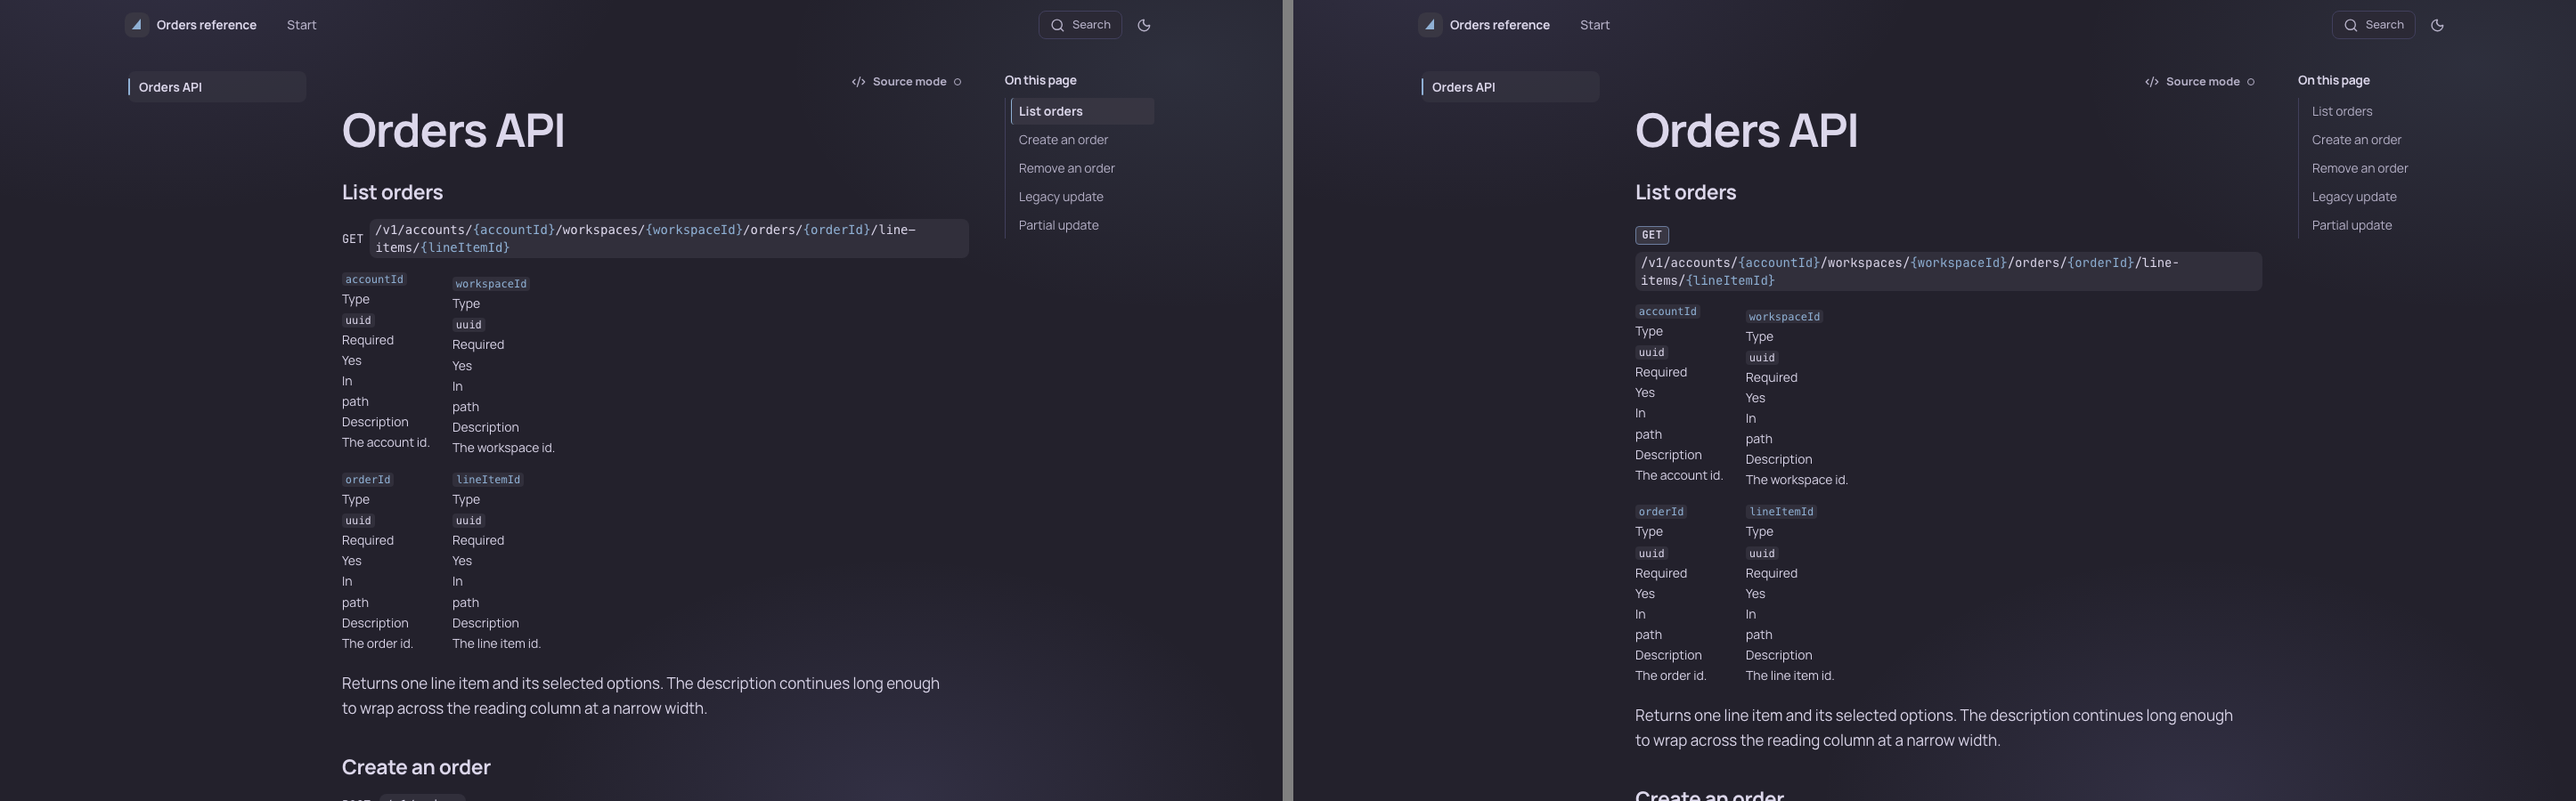
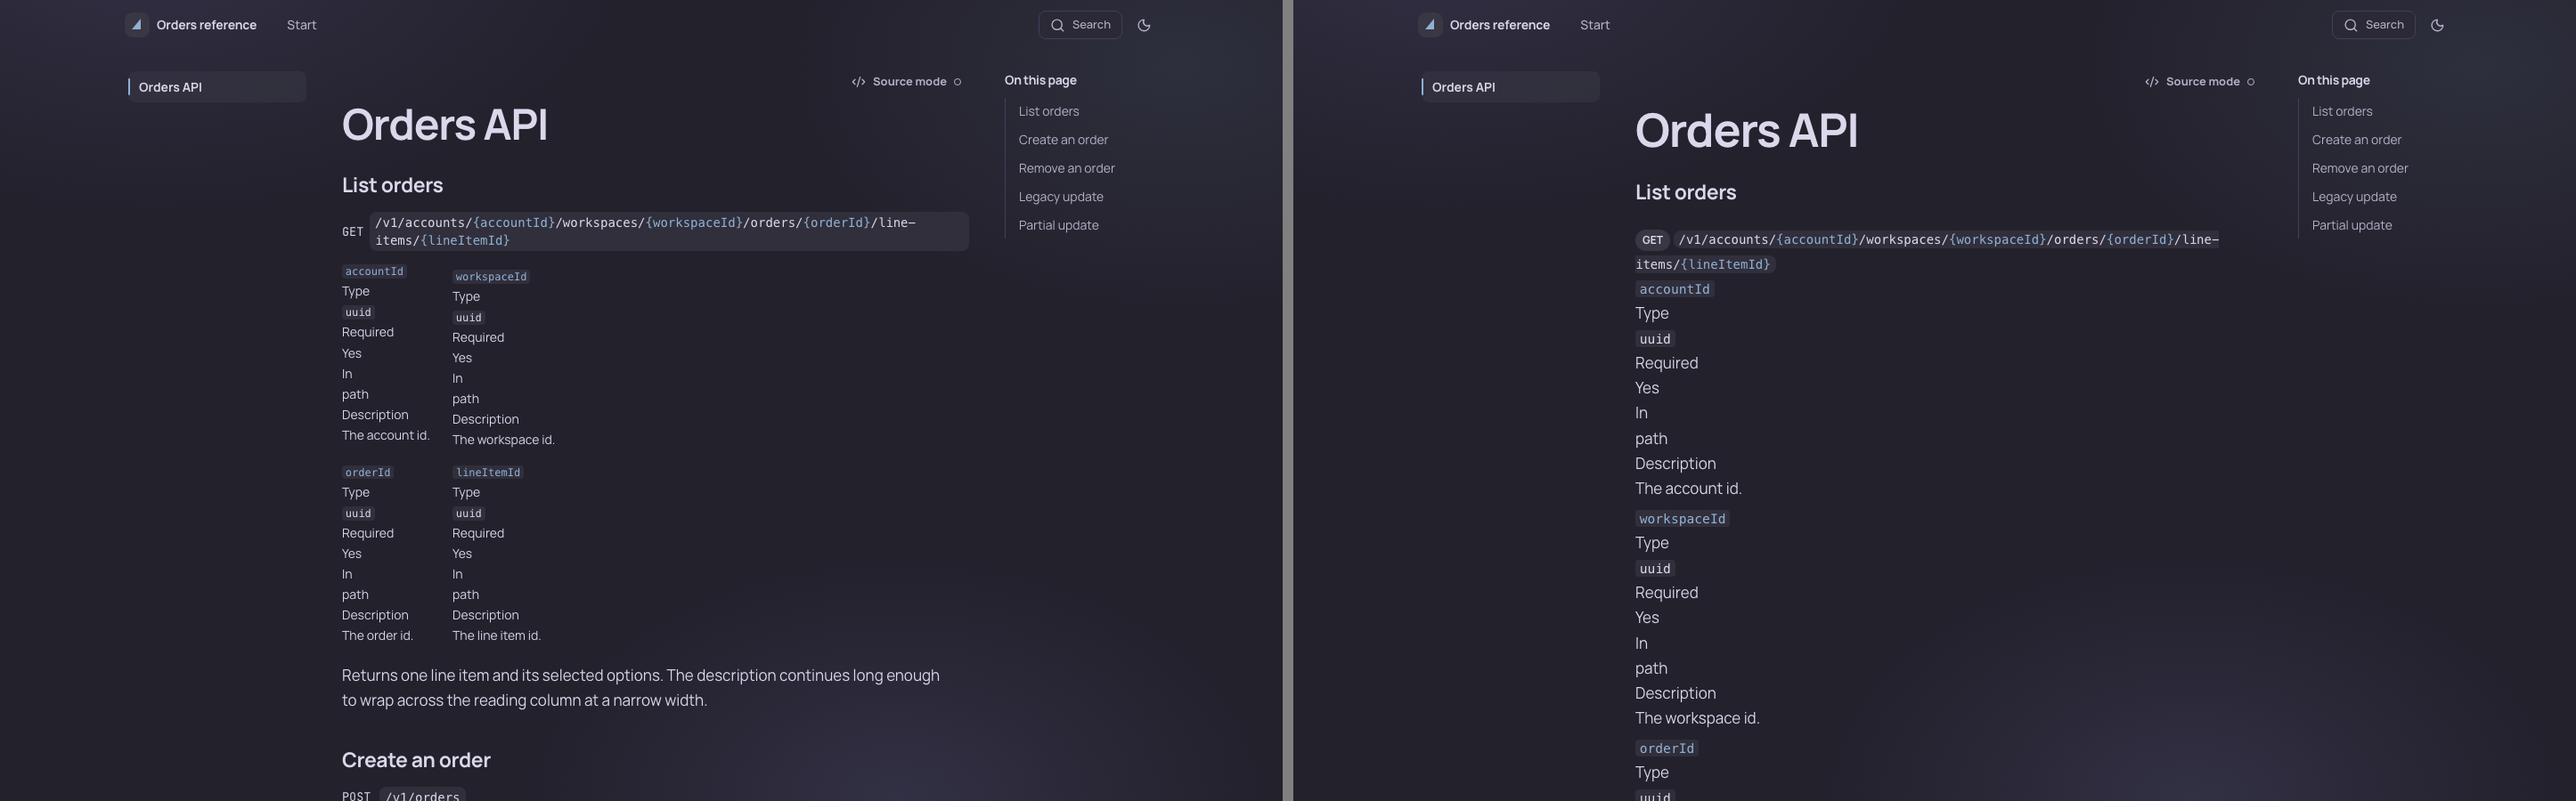
Share the endpoint method badge and keep the CSS budget
- Reuse the version-badge primitive for the endpoint method and render the
  request line as flowing text, so the method keeps its text label and a long
  path wraps without a new badge rule.
- Stack the endpoint parameter metadata vertically instead of the shared
  key-value grid, which had placed each parameter in a separate column.
- Update the endpoint docs and the upgrade normalization for the shared badge
  class and the space before the path.

diff --git a/test/api-reference-layout/api-reference.test.ts b/test/api-reference-layout/api-reference.test.ts
@@ -26,7 +26,7 @@ const indexCss = "" /* lateen-legacy removed: ../layouts/api-reference-index.css
 test("a full operation renders the method, path, title, description, tags, deprecated state, and server", () => {
   const page = render(operationPage(fullOperation));
   assert.match(page, /<main id="main" tabindex="-1">[\s\S]*?<article class="doc api-reference" data-pagefind-body="true">/);
-  assert.match(page, /<span class="api-reference-method api-reference-method-post">POST<\/span><code class="api-reference-path" dir="ltr">\/widgets<\/code>/);
+  assert.match(page, /<span class="version-badge api-reference-method api-reference-method-post">POST<\/span> <code class="api-reference-path" dir="ltr">\/widgets<\/code>/);
   assert.match(page, /<h1>Create a widget<\/h1>/);
   assert.match(page, /<p class="api-reference-description">Creates one widget and returns it\.<\/p>/);
   assert.match(page, /<ul class="api-reference-tags" aria-label="Tags"><li class="api-reference-tag">Widgets<\/li><\/ul>/);
@@ -70,7 +70,7 @@ test("responses render every status, its description, content, schemas, and exam
 
 test("the minimal operation still has method, path, title, and its response, and no empty optional sections", () => {
   const page = render(operationPage(minimalOperation));
-  assert.match(page, /<span class="api-reference-method api-reference-method-get">GET<\/span><code class="api-reference-path" dir="ltr">\/ping<\/code>/);
+  assert.match(page, /<span class="version-badge api-reference-method api-reference-method-get">GET<\/span> <code class="api-reference-path" dir="ltr">\/ping<\/code>/);
   assert.match(page, /<h1>GET \/ping<\/h1>/);
   assert.match(page, /<h2>Responses<\/h2><section class="api-reference-response"><h3><code class="api-reference-status" dir="ltr">200<\/code><span class="api-reference-response-description"> The service is up\.<\/span><\/h3>/);
   assert.doesNotMatch(page, /api-reference-tags|api-reference-server|api-reference-deprecated|>Parameters<|>Request body</);
@@ -148,8 +148,8 @@ test("the index renders its title, version, description, groups, and untagged op
   assert.match(page, /<span class="api-reference-index-label">Version<\/span> <code dir="ltr">1\.4\.0<\/code>/);
   assert.match(page, /<p class="api-reference-description">A small API\.<\/p>/);
   assert.match(page, /<nav class="api-reference-index-nav" aria-labelledby="api-reference-index-nav-title"><h2 id="api-reference-index-nav-title">Operations<\/h2>/);
-  assert.match(page, /<h3 class="api-reference-index-group-title">Widgets<\/h3><ul class="api-reference-index-list"><li><a class="api-reference-index-link" href="\/reference\/createWidget\/">Create a widget<\/a><\/li><\/ul>/);
-  assert.match(page, /<h3 class="api-reference-index-group-title">Other operations<\/h3><ul class="api-reference-index-list"><li><a class="api-reference-index-link" href="\/reference\/ping\/">GET \/ping<\/a><\/li><\/ul>/);
+  assert.match(page, /<h3 class="api-reference-index-group-title">Widgets<\/h3><ul class="api-reference-index-list grid gap-3"><li><a class="api-reference-index-link" href="\/reference\/createWidget\/">Create a widget<\/a><\/li><\/ul>/);
+  assert.match(page, /<h3 class="api-reference-index-group-title">Other operations<\/h3><ul class="api-reference-index-list grid gap-3"><li><a class="api-reference-index-link" href="\/reference\/ping\/">GET \/ping<\/a><\/li><\/ul>/);
   assert.equal([...page.matchAll(/<h1>/g)].length, 1);
 });
 
@@ -173,11 +173,11 @@ test("the index introduces each operation with the method, path, and description
   );
   assert.match(
     page,
-    /<li class="api-reference-index-item"><a class="api-reference-index-link api-reference-index-entry" href="\/reference\/createWidget\/"><span class="api-reference-index-line"><span class="api-reference-method api-reference-method-post">POST<\/span><code class="api-reference-path" dir="ltr">\/widgets<\/code><\/span><span class="api-reference-index-title">Create a widget<\/span><span class="api-reference-index-description">Creates one widget and returns it\.<\/span><\/a><\/li>/,
+    /<li class="api-reference-index-item"><a class="api-reference-index-link api-reference-index-entry grid" href="\/reference\/createWidget\/"><span class="endpoint-line"><span class="version-badge api-reference-method api-reference-method-post">POST<\/span> <code class="endpoint-path" dir="ltr">\/widgets<\/code><\/span><strong class="api-reference-index-title">Create a widget<\/strong><p class="api-reference-index-description">Creates one widget and returns it\.<\/p><\/a><\/li>/,
   );
   assert.match(
     page,
-    /<li class="api-reference-index-item"><a class="api-reference-index-link api-reference-index-entry" href="\/reference\/ping\/"><span class="api-reference-index-line"><span class="api-reference-method api-reference-method-get">GET<\/span><code class="api-reference-path" dir="ltr">\/ping<\/code><\/span><\/a><\/li>/,
+    /<li class="api-reference-index-item"><a class="api-reference-index-link api-reference-index-entry grid" href="\/reference\/ping\/"><span class="endpoint-line"><span class="version-badge api-reference-method api-reference-method-get">GET<\/span> <code class="endpoint-path" dir="ltr">\/ping<\/code><\/span><\/a><\/li>/,
   );
 });
 
@@ -211,7 +211,7 @@ test("an operation without a description keeps its request line and title", () =
   );
   assert.match(
     page,
-    /<span class="api-reference-method api-reference-method-get">GET<\/span><code class="api-reference-path" dir="ltr">\/widgets<\/code><\/span><span class="api-reference-index-title">List widgets<\/span><\/a>/,
+    /<span class="version-badge api-reference-method api-reference-method-get">GET<\/span> <code class="endpoint-path" dir="ltr">\/widgets<\/code><\/span><strong class="api-reference-index-title">List widgets<\/strong><\/a>/,
   );
   assert.doesNotMatch(page, /api-reference-index-description/);
 });

diff --git a/styles/src/content.css b/styles/src/content.css
@@ -557,62 +557,11 @@
     background: var(--background);
   }
 
-  /* Endpoint introductions: the hand-written endpoint block and the generated operation page share
-     one line, one method badge, and one wrapping path. The method's text is its label; the hairline
-     tint only groups the verbs, so color is never the only signal. */
-  :is(.endpoint-line, .api-reference-line, .api-reference-index-line) {
-    display: flex;
-    flex-wrap: wrap;
-    align-items: center;
-    gap: 0.5rem 0.625rem;
-    min-inline-size: 0;
-  }
-
-  .endpoint-line {
-    font-family: var(--type-font-mono);
-    font-size: 0.84rem;
-  }
-
-  :is(.endpoint-method, .api-reference-method) {
-    display: inline-flex;
-    flex: none;
-    align-items: center;
-    padding-block: 0.05rem;
-    padding-inline: 0.4rem;
-    border: 1px solid var(--border);
-    border-radius: var(--radius-sm);
-    background: var(--muted);
-    color: var(--foreground);
-    font-family: var(--type-font-mono);
-    font-size: 0.75rem;
-    font-weight: var(--type-weight-bold);
-    line-height: 1.4;
-    letter-spacing: 0.04em;
-    white-space: nowrap;
-  }
-
-  :is(.endpoint-method-get, .api-reference-method-get) {
-    border-color: color-mix(in srgb, var(--link) 55%, var(--border));
-  }
-
-  :is(.endpoint-method-post, .api-reference-method-post) {
-    border-color: color-mix(in srgb, var(--mist) 70%, var(--border));
-  }
-
-  :is(.endpoint-method-put, .api-reference-method-put, .endpoint-method-patch, .api-reference-method-patch) {
-    border-color: color-mix(in srgb, var(--muted-foreground) 45%, var(--border));
-  }
-
-  :is(.endpoint-method-delete, .api-reference-method-delete) {
-    border-color: color-mix(in srgb, var(--foreground) 60%, var(--border));
-  }
-
-  :is(.endpoint-path, .api-reference-path) {
-    min-inline-size: 0;
-    max-inline-size: 100%;
+  /* Endpoint introductions: the hand-written endpoint block, the generated operation page, and
+     the reference index share one line, one method badge, and one wrapping path. The method's
+     text is its label, so color is never the only signal. */
+  :is(.endpoint-line, .api-reference-line) {
     overflow-wrap: anywhere;
-    font-family: var(--type-font-mono);
-    font-size: var(--text-sm);
   }
 
   .endpoint {
@@ -623,7 +572,6 @@
     color: var(--link);
   }
 
-  .endpoint-params,
   .key-value {
     display: grid;
     grid-template-columns: 7rem 1fr;

diff --git a/layouts/api-reference-index.ts b/layouts/api-reference-index.ts
@@ -108,17 +108,18 @@ function operationItem(link: ReferenceLink, operation: OperationSummary | undefi
     { class: "api-reference-index-item" },
     h(
       "a",
-      { class: "api-reference-index-link api-reference-index-entry", href: link.url },
+      { class: "api-reference-index-link api-reference-index-entry grid", href: link.url },
       h(
         "span",
-        { class: "api-reference-index-line" },
-        h("span", { class: methodClassOf(operation.method) }, operation.method.toUpperCase()),
-        h("code", { class: "api-reference-path", dir: "ltr" }, operation.path),
+        { class: "endpoint-line" },
+        h("span", { class: `version-badge ${methodClassOf(operation.method)}` }, operation.method.toUpperCase()),
+        " ",
+        h("code", { class: "endpoint-path", dir: "ltr" }, operation.path),
       ),
-      title === undefined ? null : h("span", { class: "api-reference-index-title" }, title),
+      title === undefined ? null : h("strong", { class: "api-reference-index-title" }, title),
       operation.description === undefined
         ? null
-        : h("span", { class: "api-reference-index-description" }, operation.description),
+        : h("p", { class: "api-reference-index-description" }, operation.description),
     ),
   );
 }
@@ -131,7 +132,7 @@ function groupSection(entry: ReferenceGroup, operations: ReadonlyMap<string, Ope
     h("h3", { class: "api-reference-index-group-title" }, entry.title),
     h(
       "ul",
-      { class: "api-reference-index-list" },
+      { class: "api-reference-index-list grid gap-3" },
       ...(entry.children ?? []).map((link) => operationItem(link, operations.get(link.url))),
     ),
   );
@@ -150,7 +151,7 @@ function otherSection(
     h("h3", { class: "api-reference-index-group-title" }, t(lang, "api_other_operations")),
     h(
       "ul",
-      { class: "api-reference-index-list" },
+      { class: "api-reference-index-list grid gap-3" },
       ...entries.map((entry) => operationItem({ title: entry.title, url: entry.url ?? "" }, operations.get(entry.url ?? ""))),
     ),
   );

diff --git a/styles/src/document.css b/styles/src/document.css
@@ -228,60 +228,6 @@
     overflow-wrap: anywhere;
   }
 
-  .api-reference-operation-header {
-    margin-block-end: var(--space-2);
-  }
-
-  /* One operation introduction in the reference index: the request line, the title, and the
-     description, with enough space between operations to scan the list. The path uses the shared
-     code style, and the request line reuses the operation header's method badge. */
-  .api-reference-index-nav {
-    margin-block-start: var(--space-6);
-  }
-
-  .api-reference-index-group + .api-reference-index-group {
-    margin-block-start: var(--space-6);
-  }
-
-  .api-reference-index-group-title {
-    margin-block: 0 var(--space-2);
-    font-size: 1.125rem;
-    font-weight: var(--type-weight-bold);
-    line-height: 1.5;
-  }
-
-  .api-reference-index-list {
-    display: grid;
-    gap: var(--space-3);
-    margin: 0;
-    padding: 0;
-    list-style: none;
-  }
-
-  .api-reference-index-entry {
-    display: grid;
-    gap: 0.25rem;
-    color: inherit;
-    text-decoration: none;
-  }
-
-  .api-reference-index-title {
-    font-weight: 600;
-  }
-
-  .api-reference-index-description {
-    color: var(--muted-foreground);
-    font-size: var(--text-sm);
-    line-height: 1.5;
-    overflow-wrap: anywhere;
-  }
-
-  .api-reference-index-entry:hover .api-reference-index-title,
-  .api-reference-index-entry:focus-visible .api-reference-index-title {
-    text-decoration: underline;
-    text-underline-offset: 0.15em;
-  }
-
   .breadcrumb {
     @apply flex items-center gap-1.5 text-sm text-muted-foreground;
     margin: 0;

diff --git a/test/upgrade-0.2.test.ts b/test/upgrade-0.2.test.ts
@@ -182,6 +182,14 @@ function normalize(text: string): { head: string; body: string } {
   for (const element of [...document.querySelectorAll('.search-input[dir="auto"]')]) element.removeAttribute("dir");
   // The trust panel gained an id so the tested chip can link to it.
   for (const element of [...document.querySelectorAll("details.trust-panel#trust-panel")]) element.removeAttribute("id");
+  // 0.2.3 gives the endpoint method the shared version-badge style and a space before the path;
+  // the method text, its method class, and the path are unchanged.
+  for (const element of [...document.querySelectorAll(".endpoint-line > .endpoint-method")]) element.classList.remove("version-badge");
+  for (const line of [...document.querySelectorAll(".endpoint-line")]) {
+    for (const node of [...line.childNodes]) {
+      if (node.nodeType === 3 && node.textContent.trim() === "") node.remove();
+    }
+  }
   // The Sailcloth shell adds style-only class hooks to the existing grid and recovery content.
   for (const element of [...document.querySelectorAll(".layout")]) element.classList.remove("doc-layout");
   for (const element of [...document.querySelectorAll(".not-found")]) element.classList.remove("lonely");

diff --git a/test/reflow-320.test.ts b/test/reflow-320.test.ts
@@ -236,7 +236,7 @@ test("the reference index wraps a long path and separates operations on mobile",
 
     const order = entries.filter({ hasText: "Create an order" });
     assert.equal(await order.locator(".api-reference-method").innerText(), "POST");
-    assert.equal(await order.locator(".api-reference-path").innerText(), "/v1/orders");
+    assert.equal(await order.locator(".endpoint-path").innerText(), "/v1/orders");
     assert.equal(await order.locator(".api-reference-index-description").innerText(), "Creates one order.");
 
     const health = entries.filter({ hasText: "/v1/health" });
@@ -244,7 +244,7 @@ test("the reference index wraps a long path and separates operations on mobile",
 
     const long = entries.filter({ hasText: "/v1/accounts/" });
     assert.equal(await long.count(), 1);
-    const path = await long.locator(".api-reference-path").evaluate((element) => {
+    const path = await long.locator(".endpoint-path").evaluate((element) => {
       const range = document.createRange();
       range.selectNodeContents(element);
       const box = element.getBoundingClientRect();

diff --git a/test/base-css.test.ts b/test/base-css.test.ts
@@ -68,20 +68,9 @@ test("home preview and mobile cards keep the Sailcloth surface contract", () => 
 });
 
 test("API reference introductions keep the method text intact and let a long path wrap", () => {
-  const line = bodyOf(ui, /api-reference-index-line/);
-  assert.match(line, /display:\s*flex/);
-  assert.match(line, /flex-wrap:\s*wrap/);
-  assert.match(line, /min-inline-size:\s*0/);
-
-  const method = bodyOf(ui, /api-reference-method\)/);
-  assert.match(method, /flex:\s*none/);
-  assert.match(method, /white-space:\s*nowrap/);
-
-  const path = bodyOf(ui, /api-reference-path\)/);
-  assert.match(path, /min-inline-size:\s*0/);
-  assert.match(path, /overflow-wrap:\s*anywhere/);
-
-  assert.match(bodyOf(ui, /^\.api-reference-index-list$/), /gap:\s*var\(--space-3\)/);
+  const line = bodyOf(ui, /api-reference-line\)/);
+  assert.match(line, /overflow-wrap:\s*anywhere/);
+  assert.match(bodyOf(ui, /^\*$/), /min-inline-size:\s*0/);
 });
 
 test("document typography and metadata follow the Sailcloth prose contract", () => {

diff --git a/test/component-endpoint.test.ts b/test/component-endpoint.test.ts
@@ -131,14 +131,14 @@ test("each known method gets its own badge class", () => {
   for (const method of METHODS) {
     assert.equal(methodClassOf(method), `endpoint-method endpoint-method-${method.toLowerCase()}`);
     const [badge] = withClass(render({ method, path: "/a" }), "endpoint-method");
-    assert.equal(badge?.props.class, `endpoint-method endpoint-method-${method.toLowerCase()}`);
+    assert.equal(badge?.props.class, `version-badge endpoint-method endpoint-method-${method.toLowerCase()}`);
   }
 });
 
 test("an unknown method gets the neutral badge class and keeps its text", () => {
   assert.equal(methodClassOf("PROPFIND"), "endpoint-method endpoint-method-other");
   const [badge] = withClass(render({ method: "propfind", path: "/a" }), "endpoint-method");
-  assert.equal(badge?.props.class, "endpoint-method endpoint-method-other");
+  assert.equal(badge?.props.class, "version-badge endpoint-method endpoint-method-other");
   assert.equal(textOf(badge), "PROPFIND");
 });
 

diff --git a/components/endpoint/index.ts b/components/endpoint/index.ts
@@ -193,7 +193,8 @@ export default function endpoint({ props, html, page }: ComponentProps<EndpointP
     h(
       "div",
       { class: "endpoint-line" },
-      method === null ? null : h("span", { class: methodClassOf(method) }, method),
+      method === null ? null : h("span", { class: `version-badge ${methodClassOf(method)}` }, method),
+      method === null ? null : " ",
       h(
         "code",
         { class: "endpoint-path", dir: "ltr" },

diff --git a/layouts/api-reference.ts b/layouts/api-reference.ts
@@ -559,7 +559,8 @@ function operationHeader(view: OperationView, lang: string): ComponentChildren {
     h(
       "div",
       { class: "api-reference-line" },
-      h("span", { class: view.methodClass }, view.methodLabel),
+      h("span", { class: `version-badge ${view.methodClass}` }, view.methodLabel),
+      " ",
       h("code", { class: "api-reference-path", dir: "ltr" }, view.path),
     ),
     h("h1", null, view.title),

diff --git a/styles/forced-colors.css b/styles/forced-colors.css
@@ -217,7 +217,7 @@
   }
 
   /* An endpoint's method badge says GET or POST in text, so the method stays readable. */
-  :is(.endpoint-method, .api-reference-method) {
+  .endpoint-method {
     border-color: CanvasText !important;
     color: CanvasText !important;
   }

diff --git a/site/components/endpoint.md b/site/components/endpoint.md
@@ -29,7 +29,7 @@ Returns one user.
 
 | Name | Type | Default | What it does |
 | --- | --- | --- | --- |
-| `method` | string | no badge | The HTTP method, in any case. Known methods get their own badge color; any other method gets the neutral one. |
+| `method` | string | no badge | The HTTP method, in any case. The method text is the badge; known methods keep their own class for styling, and any other method uses the neutral class. |
 | `path` | string | empty | The path. Write parameters as `{id}` (OpenAPI) or `:id` (Express); both are highlighted and listed. |
 | `parameters` | string | — | A JSON array of parameter metadata: `{"name":"id","type":"string","required":true,"description":"…"}`. Entries are matched to the path by name; the first entry for a name wins. |
 
